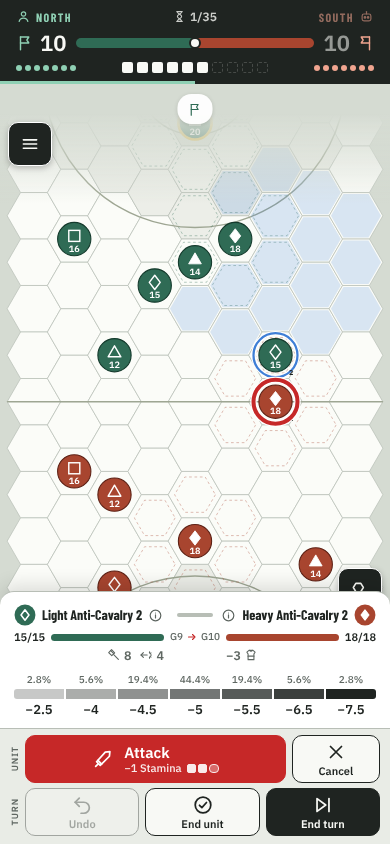
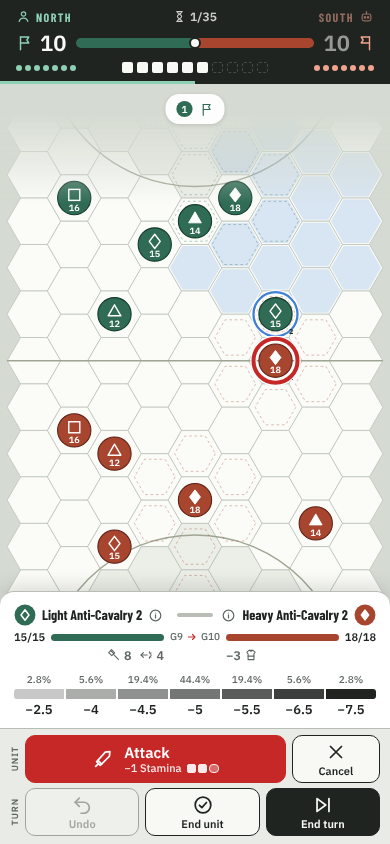
Brief 025: review of #47, five fixes
Notes take all of row 1 and never clip (two lines beside a long name);
field buttons hide under any sheet or the key drawer; the Special
button's state bar clears its label; re-warm says "again"; a preview
scrolls the attacker and every target above the sheet. 32 new phone
checks. Closes F025-2, F025-5.

Claude-Session: https://claude.ai/code/session_01NQibGW7xZDeEWBKGZw7zVF

Changed region(s): [[0.0, 0.1232, 0.9846, 0.7085], [0.4308, 0.0924, 0.5846, 0.1848], [0.3385, 0.1848, 0.3692, 0.2156]]

diff --git a/board/app.js b/board/app.js
@@ -982,12 +982,28 @@
     if (!center && y > top + 70 && y < top + vis - 70) return;
     sc.scrollTo({ top: Math.max(0, y - vis / 2), behavior: center ? "auto" : "smooth" });
   }
-  /** Put a hex in the upper part of the field, above a sheet that covers the bottom. */
+  /** The hexes a preview is about besides the unit: its target, a special's other targets, the flag it pulls. */
+  function previewHexes() {
+    const st = App.st, ui = App.ui, sh = ui.sheet, out = [];
+    if (!sh) return out;
+    const t = sh.target && E.unitByUid(st, sh.target);
+    if ((sh.kind === "attack" || sh.kind === "special") && t) out.push(t.hex);
+    if (sh.kind === "special") { const o = selOptions(), p = o && o.special && o.special.targets.find((x) => x.target === sh.target); if (p) for (const hh of p.hits) { const x = E.unitByUid(st, hh.uid); if (x && x.hex) out.push(x.hex); } }
+    if (sh.kind === "pull" && ui.sel) out.push(fld().FLAG[E.foeOf(E.unitByUid(st, ui.sel).team)]);
+    return out;
+  }
+  /** Put the unit and everything its preview is about in the part of the field above the sheet (phone). The field
+      has scroll room below its last row while a sheet is open (fieldRoom), so a unit on the last rows can come up too. */
   function revealAbove(h) {
-    const sc = $("fieldscroll"), svg = $("board");
+    const sc = $("fieldscroll"), svg = $("board"), sh = $("sheet");
     if (!svg.clientHeight || window.innerWidth >= 900) return;
-    const y = pos(h)[1] * (svg.clientHeight / boardH());
-    sc.scrollTo({ top: Math.max(0, y - sc.clientHeight * 0.28), behavior: "smooth" });
+    fieldRoom();
+    const k = svg.clientHeight / boardH(), ys = [h, ...previewHexes()].map((x) => pos(x)[1] * k);
+    const lo = Math.min(...ys), hi = Math.max(...ys), m = R * k + 8;   // a hex and a little air
+    const vis = sc.clientHeight - (!sh.hidden && sh.parentNode === $("fieldwrap") ? sh.getBoundingClientRect().height : 0);
+    let top = hi - lo + 2 * m <= vis ? (lo + hi) / 2 - vis / 2 : lo - m;
+    top = Math.max(0, Math.min(top, sc.scrollHeight - sc.clientHeight));
+    sc.scrollTo({ top, behavior: "smooth" });
   }
   function updateEdges() {
     const st = App.st, sc = $("fieldscroll"), svg = $("board");
@@ -1195,6 +1211,7 @@
     const cost = rt ? rt.cost : 0;
     const mv = movesLeft(st, sel);
     const warm = !!(ui.sheet && ui.sheet.kind === "warm" && o && o.special && o.special.warmup);
+    const rewarm = warm && o.special.state === "Charged";   // charged, no target in range: it warms up again
     // Chips in walking order, filling from the right; the Evade chip first in an Evade step.
     const evChip = (n) => `<span class="uchip">${ic("evade", 12, "#fff", "", 2.4)}${n}</span>`;
     const evHexes = () => Object.values(o.moves).reduce((m, x) => Math.max(m, x.steps), 0);
@@ -1202,23 +1219,27 @@
     if (o && o.evading) chips.push(evChip(evHexes()));
     if (rt) for (const e of rt.events) chips.push(e.type === "spear" ? `<span class="uchip hurt">${ic("setspear", 12, "#fff", "", 2.4)}${fmt(e.amount)}</span>` : e.type === "mark" ? `<span class="uchip">${ic("mark", 12, "#fff", "", 2.4)}</span>` : `<span class="uchip">+${fmt(e.amount)}</span>`);
     let note = "";
-    if (warm) note = "Fires next turn · no attack or brace";
+    if (rewarm) note = "No target in range · fires next turn";
+    else if (warm) note = "Fires next turn · no attack or brace";
     else if (!rt && o && !o.evading && !sel.done && !Object.keys(o.moves).length) note = "No movement available this turn";
     const after = note ? `<span class="ub-note">${esc(note)}</span>` : `<span class="ub-chips">${chips.join("")}</span>`;
+    // While a note shows (warm-up, can't move), it takes all of row 1: no hex and moves (review of #47, fix 1).
     let side;
-    if (warm) side = "";
+    if (note) side = null;
     else if (rt) side = `<span class="rfrom">${sel.hex}</span>${ic("arrow", 13)}<span class="rto">${ui.ghost}</span>`;
     else side = `${enemy ? `<span class="muted">Next turn</span>` : `<span role="img" aria-label="At ${sel.hex}" style="display:inline-flex;align-items:center;gap:4px">${ic("hex", 14, "var(--muted)")}${sel.hex}</span>`}
         <span role="img" aria-label="Can move ${mv} hex${mv === 1 ? "" : "es"}">→ ${mv}</span>`;
     const pct = s.maxHp ? Math.max(0, Math.min(100, (100 * s.hp) / s.maxHp)) : 0;
     el.innerHTML = `<button type="button" class="ub-handle" data-act="key-open" aria-controls="fieldkey" aria-label="Show the key"><span></span></button>
       <div class="ub-grid">
-        <div class="ub-r1"><button type="button" class="ub-id" data-act="info" aria-label="Unit information">${tokenInline(iconKey(st.rs, sel.card), sel.team, 24, sel.fk)}<span class="ub-name">${esc(UI.unitName(st, sel))}</span>${ic("info", 16, "var(--muted)")}</button>${after}</div>
-        <div class="ub-side">${side}</div>
+        <div class="ub-r1${side === null ? " wide" : ""}"><button type="button" class="ub-id" data-act="info" aria-label="Unit information">${tokenInline(iconKey(st.rs, sel.card), sel.team, 24, sel.fk)}<span class="ub-name">${esc(UI.unitName(st, sel))}</span>${ic("info", 16, "var(--muted)")}</button>${after}</div>
+        ${side === null ? "" : `<div class="ub-side">${side}</div>`}
         <div class="ub-hp" role="img" aria-label="HP ${fmt(s.hp)} of ${fmt(s.maxHp)}"><i style="width:${pct.toFixed(0)}%;background:${teamColor(sel.team)}"></i></div>
         <div class="ub-r2"><span class="num">${fmt(s.hp)}/${fmt(s.maxHp)}</span>${stamSquares(sel, now, cost)}</div>
       </div>`;
     fitChips(el);
+    const nt = el.querySelector(".ub-note");   // a note never clips: two lines if one won't fit (review of #47, fix 1)
+    if (nt && nt.scrollWidth > nt.clientWidth + 0.5) nt.classList.add("two");
   }
   /** §3: chips never cover the name or the (i). If they would not fit, they stop 8 px short of the (i) and the rest
       show as a last chip "+N". */
@@ -1237,7 +1258,7 @@
   function renderActions() {
     const st = App.st, ui = App.ui, el = $("actions");
     // A greyed-out button stays tappable when it has a reason: the tap shows why (Brief 005). Reasons come from the engine.
-    const b = (act, icon, label, opt) => `<button type="button" class="act${opt.cls ? " " + opt.cls : ""}" data-act="${act}" ${opt.dis ? (opt.why ? `aria-disabled="true" data-why="${esc(opt.why)}" title="${esc(opt.why)}"` : "disabled") : ""} ${opt.pressed !== undefined ? `aria-pressed="${opt.pressed}"` : ""}${opt.aria ? ` aria-label="${esc(opt.aria)}"` : ""}${opt.flex ? ` style="flex:${opt.flex} 1 0"` : ""}>${opt.dot ? `<i class="dot ${opt.dot}"></i>` : ""}${ic(icon, 22)}<span>${label}</span>${opt.bar ? `<i class="spbar ${opt.bar}"></i>` : ""}</button>`;
+    const b = (act, icon, label, opt) => `<button type="button" class="act${opt.cls ? " " + opt.cls : ""}${opt.bar ? " hasbar" : ""}" data-act="${act}" ${opt.dis ? (opt.why ? `aria-disabled="true" data-why="${esc(opt.why)}" title="${esc(opt.why)}"` : "disabled") : ""} ${opt.pressed !== undefined ? `aria-pressed="${opt.pressed}"` : ""}${opt.aria ? ` aria-label="${esc(opt.aria)}"` : ""}${opt.flex ? ` style="flex:${opt.flex} 1 0"` : ""}>${opt.dot ? `<i class="dot ${opt.dot}"></i>` : ""}${ic(icon, 22)}<span>${label}</span>${opt.bar ? `<i class="spbar ${opt.bar}"></i>` : ""}</button>`;
     if (st.phase === "deploy") {
       const t = deployTeam(), mine = st.units.filter((u) => u.team === t);
       const placed = mine.filter((u) => ui.placements[u.uid]).length;
@@ -1268,7 +1289,8 @@
     if (sh && sh.kind === "warm" && o && o.special && o.special.warmup) {
       const u = E.unitByUid(st, ui.sel);
       // Phone (Brief 025 §5): no line above the buttons (the note is in the unit bar); the button names the special.
-      if (!wide()) { el.innerHTML = go("warm-confirm", " gold", "special", `Warm up ${esc(o.special.name)}`, o.special.warmupCost, u, "ink") + turnRow; fitWarm(el); return; }
+      // A charged special with no target warms up again: "Warm up <name> again" (review of #47, fix 4).
+      if (!wide()) { const again = o.special.state === "Charged"; el.innerHTML = go("warm-confirm", " gold", "special", `Warm up ${esc(o.special.name)}${again ? " again" : ""}`, o.special.warmupCost, u, "ink") + turnRow; fitWarm(el, again); return; }
       el.innerHTML = `<div class="warmline">${ic("special", 16, "var(--gold)")}<span>Warm up ${esc(o.special.name)}${o.special.state === "Charged" ? " again" : ""}: fire it next turn. No attack or brace this turn.</span></div>` +
         go("warm-confirm", " gold", "special", "Warm up", o.special.warmupCost, u, "ink") + turnRow;
       return;
@@ -1297,10 +1319,10 @@
         ${specialButton(st, su, enemy ? null : o, why, pick, b, enemy)}
         ${b("brace", "brace", "Brace", { dis: !(o && o.brace), why: W(why ? why.brace : pick), cls: ss && ss.braced ? "braced" : "", dot: ss && ss.braced ? "blue" : ss && ss.bracedLast ? "ring" : "", aria: ss && ss.braced ? "Brace, braced" : ss && ss.bracedLast ? "Brace, braced last turn" : "" })}</div>${turnRow}`;
   }
-  /** §5: "Warm up <name>" on one line; if a name is too long for the button it reads "Warm up". */
-  function fitWarm(el) {
+  /** §5: "Warm up <name>" (or "Warm up <name> again") on one line; if too long, "Warm up" (or "Warm up again"). */
+  function fitWarm(el, again) {
     const t = el.querySelector('[data-act="warm-confirm"] .go-1'), b = t && t.closest("button");
-    if (t && b && b.scrollWidth > b.clientWidth + 0.5) t.textContent = "Warm up";
+    if (t && b && b.scrollWidth > b.clientWidth + 0.5) t.textContent = again ? "Warm up again" : "Warm up";
   }
   /** The Special button (Brief 011, 5a): the unit's special by name, in its state. Older rule sets keep the greyed-out
       "Special" button. Every reason comes from the engine (blockReasons). */
@@ -1534,7 +1556,17 @@
     const sorted = rows.slice().sort((a, b) => KEY_ORDER.indexOf(a.kind) - KEY_ORDER.indexOf(b.kind));
     return `<div class="key" id="fieldkey"><div class="key-h">ON THE FIELD</div>${sorted.map((r) => `<div class="key-row mk">${keySwatch(r.kind)}<div><div class="key-1">${esc(KEY_NAMES[r.kind] || r.kind)}</div><div class="key-2">${esc(r.line)}</div></div></div>`).join("")}</div>`;
   }
-  function renderSheet() {
+  function renderSheet() { renderSheetBody(); fieldRoom(); }
+  /** Phone (review of #47, fixes 2 and 5): while a sheet or the key drawer is over the field, the field buttons hide
+      (they are never covered) and the field gets scroll room below its last row as tall as the sheet, so every unit
+      in a preview can scroll above it. Nothing covers the top of the field, so it needs no room there. */
+  function fieldRoom() {
+    const el = $("sheet"), sc = $("fieldscroll");
+    const open = !wide() && !el.hidden && el.parentNode === $("fieldwrap");
+    $("view-play").classList.toggle("sheet-open", open);
+    sc.style.paddingBottom = open ? Math.ceil(el.getBoundingClientRect().height) + "px" : "";
+  }
+  function renderSheetBody() {
     const st = App.st, ui = App.ui, el = $("sheet"), sc = $("scrim");
     let sh = ui.sheet;
     placeSheet();

diff --git a/board/tests/test_phone.js b/board/tests/test_phone.js
@@ -18,7 +18,7 @@ function setup(arg) {
   const base = arg.rsId ? D.PRESETS.find((p) => p.id === arg.rsId) : D.PRESETS[D.PRESETS.length - 1];
   const rs = JSON.parse(JSON.stringify(base));
   const L = (list) => list.map(([id, card, fk]) => ({ id, card, fk: !!fk }));
-  App.match = { id: "phone", started: new Date().toISOString(), rs, opts: { first: "N", players: { N: { type: "human" }, S: { type: "bot", brainId: "brain5" } }, names: { N: "North", S: "South" }, lineups: { N: L(arg.N), S: L(arg.S) }, seed: "phone", format: "std7" }, brains: { S: BR.DEFAULT_BRAINS.brain5 || BR.DEFAULT_BRAINS.standard }, actions: [], draws: 0 };
+  App.match = { id: "phone", started: new Date().toISOString(), rs, opts: { first: "N", players: { N: { type: "human" }, S: arg.south ? { type: "human" } : { type: "bot", brainId: "brain5" } }, names: { N: "North", S: "South" }, lineups: { N: L(arg.N), S: L(arg.S) }, seed: "phone", format: "std7" }, brains: { S: BR.DEFAULT_BRAINS.brain5 || BR.DEFAULT_BRAINS.standard }, actions: [], draws: 0 };
   G.rebuild();
   const st = App.st;
   for (const team of ["N", "S"]) {
@@ -28,7 +28,8 @@ function setup(arg) {
   }
   App.match.actions = JSON.parse(JSON.stringify(st.actions));
   for (const uid in arg.place) E.unitByUid(st, uid).hex = arg.place[uid];
-  G.resetUi(); G.show("play");
+  if (arg.south) { E.act(st, { type: "end" }); App.match.actions = JSON.parse(JSON.stringify(st.actions)); }
+  G.resetUi(); document.getElementById("fieldscroll").scrollTop = 0; G.show("play");
 }
 const LINE = [["HM", "HM", true], ["HM2", "HM"], ["LM", "LM"], ["HR", "HR"], ["LR", "LR"], ["HA", "HA"], ["LA", "LA"]];
 const PLACE = { "N-HM": "E4", "N-HM2": "D9", "N-LM": "G9", "N-HR": "E7", "N-LR": "C9", "N-HA": "F6", "N-LA": "D7",
@@ -147,6 +148,62 @@ const labels = () => [...document.querySelectorAll("#actions .act")].filter((b) 
     else console.log(`  ${r.name}: ${r.w} of ${r.inner} px`);
   }
   ok(!fit.length, `every special's name fits its idle button on one line at 393 px:\n  ${fit.join("\n  ")}`);
+
+  // ---- Review of #47 ----
+  const HA2 = { N: [["HM", "HM", true], ["HA", "HA"], ["HA2", "HA"], ["HR", "HR"], ["LR", "LR"], ["LM", "LM"], ["LA", "LA"]], S: LINE,
+    place: { "N-HM": "E4", "N-HA": "F6", "N-HA2": "D9", "N-HR": "E7", "N-LR": "C9", "N-LM": "G9", "N-LA": "D7", "S-HM": "E16", "S-HM2": "E11", "S-LM": "B9", "S-HR": "H13", "S-LR": "G10", "S-HA": "G12", "S-LA": "C14" } };
+  // Fix 1: a note (warm-up, can't move) takes all of row 1 and never clips, with the longest names.
+  const noteOf = () => { const n = document.querySelector("#unitbar .ub-note"), bar = document.getElementById("unitbar"); if (!n) return null;
+    const r = n.getBoundingClientRect(), br = bar.getBoundingClientRect(), lh = parseFloat(getComputedStyle(n).lineHeight) || 11.5;
+    return { text: n.textContent, clipped: n.scrollWidth > n.clientWidth + 0.5 || n.scrollHeight > n.clientHeight + 2, lines: Math.round(r.height / lh), inside: r.right <= br.right - 13 && r.bottom <= br.bottom, side: !!document.querySelector("#unitbar .ub-side") }; };
+  for (const [lab, arg, uid] of [["Light Ranged", BASE, "N-LR"], ["Heavy Anti-Cavalry 2", HA2, "N-HA2"]]) {
+    for (const [what, run] of [["warm-up", `G.App.ui.sel = "${uid}"; G.App.ui.sheet = { kind: "warm" }; G.render();`], ["can't move", `G.E.unitByUid(G.App.st, "${uid}").stam = 0; G.App.ui.sel = "${uid}"; G.render();`],
+      ["re-warm", `G.E.unitByUid(G.App.st, "${uid}").sp = "charged"; G.E.unitByUid(G.App.st, "${uid}").hex = "A6"; G.App.ui.sel = "${uid}"; G.App.ui.sheet = { kind: "warm" }; G.render();`]]) {
+      const m = await go(arg, new Function(`const G = window.GGShots; ${run}`)), nt = await page.evaluate(noteOf);
+      ok(nt && !nt.clipped && nt.lines <= 2 && nt.inside && !nt.side, `${lab}, ${what}: the note shows in full across row 1, no hex or moves (${JSON.stringify(nt)})`);
+      ok(m.unitbar === 63, `${lab}, ${what}: unit bar still 63 px (got ${m.unitbar})`);
+      if (what === "can't move") ok(nt && nt.text === "No movement available this turn", `${lab}: "No movement available this turn" in full`);
+      if (what === "re-warm") {
+        ok(nt && nt.text === "No target in range · fires next turn", `${lab}: re-warm note (${nt && nt.text})`);
+        const t = await page.evaluate(() => { const g = document.querySelector('[data-act="warm-confirm"] .go-1'); return g && g.textContent; });
+        ok(/^Warm up (.+ )?again$/.test(t || ""), `${lab}: re-warm button says "again" (${t})`);
+      }
+      if (what === "warm-up") { const t = await page.evaluate(() => document.querySelector('[data-act="warm-confirm"] .go-1').textContent); ok(/^Warm up/.test(t) && !/again/.test(t), `${lab}: first warm-up button (${t})`); }
+    }
+  }
+  // Fix 2: field buttons are never covered: hidden under a sheet or the key drawer; otherwise their bottom sits a fixed
+  // 116 px above whatever is under the field, so they move up if it grows.
+  const fb = () => { const fw = document.getElementById("fieldwrap").getBoundingClientRect(), vis = (e) => !!e && getComputedStyle(e).display !== "none" && e.getBoundingClientRect().height > 0;
+    const sh = document.getElementById("sheet"), shTop = !sh.hidden && sh.parentNode.id === "fieldwrap" ? sh.getBoundingClientRect().top : Infinity;
+    return ["menubtn", "namesbtn"].map((id) => { const e = document.getElementById(id), r = e.getBoundingClientRect(); return { id, vis: vis(e), covered: vis(e) && r.bottom > shTop, gap: Math.round((fw.bottom - r.bottom) * 10) / 10, inField: r.top >= fw.top && r.bottom <= fw.bottom }; }); };
+  const under = { "attack sheet": sheets.attack, "special sheet": sheets.special, "flag-pull sheet": sheets["flag pull"],
+    "key drawer": () => { const G = window.GGShots; G.App.ui.sel = "N-LR"; G.render(); G.onBoardTap("C10"); document.querySelector("[data-act=key-open]").click(); },
+    "unit card": () => { const G = window.GGShots; G.App.ui.sel = "N-LR"; G.App.ui.sheet = { kind: "info", uid: "N-LR" }; G.render(); } };
+  for (const k in under) { await go(BASE, under[k]); const b = await page.evaluate(fb); ok(b.every((x) => !x.vis), `field buttons hidden under the ${k} (${JSON.stringify(b)})`); }
+  for (const [k, fn] of [["unit tapped", states["unit tapped"]], ["nothing tapped", null], ["deployment (taller bench)", () => { const G = window.GGShots; G.App.match.actions = []; G.rebuild(); G.resetUi(); G.App.ui.placements = {}; G.App.ui.deploySel = "N-HM"; G.show("play"); }]]) {
+    await go(BASE, fn); const b = await page.evaluate(fb), nm = b.find((x) => x.id === "namesbtn");
+    ok(b.every((x) => x.vis && x.inField && !x.covered) && nm.gap === 116, `${k}: field buttons shown, inside the field, hex names 116 px above what is under it (${JSON.stringify(b)})`);
+  }
+  // Fix 3: the Special button's state bar never touches its label or icon (Warming up, Charged).
+  for (const sp of ["warm", "charged"]) {
+    await go(BASE, new Function(`const G = window.GGShots; G.E.unitByUid(G.App.st, "N-LR").sp = "${sp}"; G.App.ui.sel = "N-LR"; G.render();`));
+    const r = await page.evaluate(() => { const b = document.querySelector('#actions [data-act="special"]'), bar = b.querySelector(".spbar"), lab = b.querySelector(":scope > span"), icon = b.querySelector(":scope > svg");
+      const glyph = (() => { const rg = document.createRange(); rg.selectNodeContents(lab); return rg.getBoundingClientRect(); })();
+      return { bar: bar.getBoundingClientRect().top, label: Math.max(lab.getBoundingClientRect().bottom, glyph.bottom), icon: icon.getBoundingClientRect().bottom }; });
+    ok(r.bar - Math.max(r.label, r.icon) >= 1, `Special ${sp}: the state bar sits clear of the label and icon (${JSON.stringify(r)})`);
+  }
+  // F025-4: the visible handle bar is outside the card's tap area, with the longest name.
+  await go(HA2, () => { const G = window.GGShots; G.App.ui.sel = "N-HA2"; G.render(); });
+  const hit = await page.evaluate(() => { const s = document.querySelector("#unitbar .ub-handle span").getBoundingClientRect(), pts = [[s.left + 1, s.top + 1], [s.right - 1, s.bottom - 1], [s.left + s.width / 2, s.top + s.height / 2]];
+    return pts.map(([x, y]) => { const e = document.elementFromPoint(x, y); return e && e.closest("[data-act]") ? e.closest("[data-act]").dataset.act : null; }); });
+  ok(hit.every((a) => a === "key-open"), `Heavy Anti-Cavalry 2: the handle bar opens the key, not the card (${hit})`);
+  // Fix 5: an Arc Hit by a South holder on E17: the attacker and every target scroll above the open sheet.
+  await go({ N: LINE, S: LINE, south: true, place: { ...PLACE, "S-HM2": "E17", "S-HM": "B15", "N-HM2": "E16", "N-LM": "D16", "N-LA": "F16" } },
+    () => { const G = window.GGShots; G.E.unitByUid(G.App.st, "S-HM2").sp = "charged"; G.App.ui.sel = "S-HM2"; G.App.ui.armed = "special"; G.render(); G.onBoardTap("E16"); });
+  await page.waitForTimeout(900);
+  const seen = await page.evaluate(() => { const sh = document.getElementById("sheet").getBoundingClientRect(), fw = document.getElementById("fieldwrap").getBoundingClientRect();
+    return ["E17", "E16", "D16", "F16"].map((h) => { const r = document.querySelector(`#board [data-hex="${h}"]`).getBoundingClientRect(); return { h, ok: r.top >= fw.top - 1 && r.bottom <= sh.top + 1 }; }); });
+  ok(seen.every((x) => x.ok), `Arc Hit from E17: the attacker and all three targets are above the sheet (${JSON.stringify(seen)})`);
 
   ok(!errors.length, `no page errors (${errors.join(" | ")})`);
   await browser.close();

diff --git a/board/index.html b/board/index.html
@@ -326,12 +326,14 @@ h3 { margin: 0 0 8px; font: 700 17px/1.1 var(--display); text-transform: upperca
   .ub5 .ub-handle span { width: 36px; height: 4px; border-radius: 2px; background: var(--line); }
   .ub5 .ub-grid { position: relative; margin-top: 14px; display: grid; grid-template-columns: minmax(0, 1fr) auto; column-gap: 10px; row-gap: 6px; align-items: center; pointer-events: none; }
   .ub5 .ub-grid > * { pointer-events: auto; }
+  .ub5 .ub-r1.wide { grid-column: 1 / -1; }
   .ub5 .ub-r1 { height: 22px; display: flex; align-items: center; gap: 8px; min-width: 0; }
   .ub5 .ub-id { position: relative; flex: 0 0 auto; display: inline-flex; align-items: center; gap: 8px; border: 0; background: none; padding: 0; height: 22px; color: var(--ink); text-align: left; }
   .ub5 .ub-id::before { content: ""; position: absolute; left: -6px; right: -6px; top: 0; height: 44px; }
   .ub5 .ub-name { font: 700 17px/1 var(--display); letter-spacing: .02em; white-space: nowrap; margin: 0; }
   .ub5 .ub-chips { flex: 1 1 auto; min-width: 0; display: flex; flex-direction: row-reverse; justify-content: flex-start; gap: 5px; overflow: hidden; margin-left: 0; }
-  .ub5 .ub-note { flex: 1 1 auto; min-width: 0; text-align: right; font: 500 11.5px/1 var(--body); color: var(--muted); white-space: nowrap; overflow: hidden; text-overflow: ellipsis; }
+  .ub5 .ub-note { flex: 1 1 auto; min-width: 0; text-align: right; font: 500 11.5px/1 var(--body); color: var(--muted); white-space: nowrap; }
+  .ub5 .ub-note.two { white-space: normal; line-height: 11px; text-wrap: balance; }   /* only when one line won't fit beside the name */
   .ub5 .ub-side { height: 22px; display: flex; align-items: center; justify-content: flex-end; gap: 8px; font: 600 13px/1 var(--num); white-space: nowrap; }
   .ub5 .ub-side .rfrom { color: var(--muted); } .ub5 .ub-side > svg { color: var(--ink); }
   .ub5 .ub-hp { height: 6px; border-radius: 3px; background: #dfe3dc; overflow: hidden; }
@@ -341,9 +343,12 @@ h3 { margin: 0 0 8px; font: 700 17px/1.1 var(--display); text-transform: upperca
   .uchip { flex: 0 0 auto; display: inline-flex; align-items: center; gap: 3px; height: 17px; border-radius: 8.5px; padding: 0 7px; background: var(--ink); color: #fff; font: 700 11px/1 var(--num); }
   .uchip.hurt { background: var(--attack); }
   #view-play.sheet-up #unitbar { display: none; }
+  #view-play.sheet-open .fbtn, #view-play.sheet-open #namesbtn { display: none; }
   /* 4. Action panel: 116 px, every button 48 px */
   #actions { padding: 6px 10px 8px; gap: 5px; }
   .act { height: 48px; }
+  .act.hasbar { padding-bottom: 9px; gap: 1px; }   /* the special's state bar sits under the label, never on it */
+  .act.hasbar .spbar { height: 4px; }
   /* 6. One sheet for attack, special and flag pull */
   #sheet.v5 { padding: 9px 14px 12px; gap: 0; }
   .v5 .strip { margin-top: 3px; display: grid; grid-template-columns: minmax(0, 1fr) 36px minmax(0, 1fr); column-gap: 8px; align-items: center; min-height: 22px; cursor: pointer; touch-action: none; }

diff --git a/briefs/025-phone-fit.md b/briefs/025-phone-fit.md
@@ -165,5 +165,14 @@ On your phone, in the browser, one 7v7 against the bot:
 - **Bot minimum (met / not met, with numbers):** n/a
 - **Settings review (brain builds only):** n/a
 - **Known gaps:** the pull sheet's modifiers are read from the engine's own wording of the pull (`pullValue().parts`); if that wording changes, `test_ui.js` fails rather than the sheet going wrong silently. Desktop still says "Tap one of your units" (desktop is out of scope).
-- **Flags closed / opened:** closed F017-1, F017-2 (the Editor, 20 Nov) and F017-4 (this build) in `flags/017.md`. Opened in `flags/025.md`: F025-1 to F025-4 (ASK), F025-5 (OPEN, for brief 018).
+- **Review of #47 (five fixes), done:**
+  1. **Notes never clip.** While a note shows (warm-up, re-warm, can't move), it takes all of row 1: no hex or moves. Beside Light Ranged it fits on one line. Beside Heavy Anti-Cavalry 2 one line still won't fit (the name, token and (i) leave about 150 px; the notes need about 185), so there it goes onto two 11 px lines inside the same 22 px row. The bar stays 63 px. Nothing clips; "No movement available this turn" shows in full. Screenshots: `build-393x665/r1-*.png`.
+  2. **Field buttons are never covered.** The menu and hex-names buttons hide while any sheet or the key drawer is open (attack, special, pull, unit card, key). Otherwise the hex-names button's bottom sits 116 px above whatever is under the field, so it moves up when that grows (checked with deployment's taller bench).
+  3. **The Special button's state bar clears its label.** On 48 px buttons with a state bar: the bar is 4 px (was 5), with a 1 px gap under the icon and 9 px padding below. The bar now sits 2 px or more below the label's text box in Warming up and Charged. Screenshots: `r3-special-warming-up.png`, `r3-special-charged.png`.
+  4. **Re-warm wording.** A charged special with no target: the button reads "Warm up <name> again" ("Warm up again" if too long) and the note reads "No target in range · fires next turn". The first warm-up is unchanged. Screenshot: `r4-rewarm.png`.
+  5. **Every unit in a preview can come above the sheet.** While a sheet is open the field gets scroll room below its last row as tall as the sheet. The preview then scrolls so the attacker and every target (a special's other targets, the flag it pulls) sit above it. Screenshot: `r5-arc-hit-from-e17.png` (South Heavy Melee holding on E17, Arc Hit on E16 with D16 and F16: all four above the sheet). No room was added above the first row. Nothing covers the top of the field now that the buttons hide under a sheet, and room there would make the field jump when a sheet opens. Ask if 018's turn tag needs it.
+  - F025-4 checked with Heavy Anti-Cavalry 2: the visible handle bar is outside the card's tap area, so nothing to change.
+  - New `test_phone.js` checks (64 in all, was 32): notes in full with both units, re-warm wording, field buttons hidden under all five sheets and placed right in three states, the state bar clear in both states, the handle bar opens the key, the E17 Arc Hit. 18 of the new checks fail on the reviewed build (`bacad98`) and all pass now. Desktop re-compared at 1280 × 800: identical, apart from the old harness artifact on the key drawer. The game files are untouched, so the hashes above still stand. Rerun here: `test_ui` 112/112, `test_version`, `test_phone` 64/64, `board_check` 4 games, 0 different.
+  - Not in this build, as asked: the several-targets rows stay as built.
+- **Flags closed / opened:** closed F017-1, F017-2 (the Editor, 20 Nov) and F017-4 (this build) in `flags/017.md`. Opened in `flags/025.md`: F025-1, F025-3, F025-4 (ASK); F025-2 and F025-5 opened and closed in this build (review of #47, fixes 1 and 2).
 - **Pull request:** https://github.com/productofdefiance/Flagfall/pull/47

diff --git a/flags/025.md b/flags/025.md
@@ -5,7 +5,7 @@ Same columns and status words as `FLAGS.md`.
 | # | Date | Raised by | Issue | Status | Resolved in / next step |
 |---|---|---|---|---|---|
 | F025-1 | 21 Nov | Code | §6.3 says a special shows "base Strength, then the multiplier, nothing struck" (`9 ×1.75`). It doesn't cover a Strength that something else changed first (Javelin's Reach −1, a Heavy Ranged's Half Strength). Built as: that change keeps Brief 009's rule (`8` struck, `7`, then `×2`); only the multiplier is never struck. Showing the base alone would hide the Reach or Half Strength and the numbers wouldn't add up to the damage shown | ASK | Recommended: accept |
-| F025-2 | 21 Nov | Code | §7 "A unit that can't move": `No movement available this turn` doesn't fit beside a normal name while the hex and moves stay on the right at 393 px (Heavy Melee: it shows about "No movement availab…"). Built so it clips with "…" rather than cover the hex (screenshot `briefs/img/025/build-393x665/s7-cannot-move.png`) | ASK | Recommended: hide the hex and moves while it shows, as the warm-up note does (its `→ 0` says the same thing); then the full line fits beside every name. Alternative: shorter wording, `Can't move this turn`, which still clips beside the longest names |
+| F025-2 | 21 Nov | Code | §7 "A unit that can't move": `No movement available this turn` doesn't fit beside a normal name while the hex and moves stay on the right at 393 px (Heavy Melee: it shows about "No movement availab…"). Built so it clips with "…" rather than cover the hex (screenshot `briefs/img/025/build-393x665/s7-cannot-move.png`) | CLOSED | Resolved by the review of #47, fix 1: while a note shows, it takes all of row 1 (no hex or moves) and goes onto two lines only if one won't fit beside the name (Heavy Anti-Cavalry 2). Never clipped; `test_phone.js` checks it |
 | F025-3 | 21 Nov | Code | §6.6 says the pulling unit sits on the left. Built as: the pulling unit sits where an attacker would (North on the left, South on the right, as the attack preview does), so a South pull puts the flag on the left | ASK | Recommended: accept (same side as every other preview) |
-| F025-4 | 21 Nov | Code | §3: the unit card's tap area (token, name and (i), 44 px tall as asked) overlaps the handle's 24 px touch area over the name. There the card wins; the handle still opens the key everywhere else along the top of the bar | ASK | Recommended: accept |
-| F025-5 | 21 Nov | Code | The hex-names button sits at Brief 018's position (its bottom 116 px above the field's bottom). With a preview sheet open (137 to 169 px tall) it is under the sheet, so hex names can't be toggled during a preview. Same for 018's zoom button below it | OPEN | For brief 018: decide whether field buttons ride above an open sheet |
+| F025-4 | 21 Nov | Code | §3: the unit card's tap area (token, name and (i), 44 px tall as asked) overlaps the handle's 24 px touch area over the name. There the card wins; the handle still opens the key everywhere else along the top of the bar | ASK | Recommended: accept. Checked in the review of #47 with Heavy Anti-Cavalry 2: the visible handle bar (y 5–9 px) is outside the card's tap area (it starts at 14 px); `test_phone.js` checks that tapping the bar opens the key |
+| F025-5 | 21 Nov | Code | The hex-names button sits at Brief 018's position (its bottom 116 px above the field's bottom). With a preview sheet open (137 to 169 px tall) it is under the sheet, so hex names can't be toggled during a preview. Same for 018's zoom button below it | CLOSED | Resolved by the review of #47, fix 2: field buttons hide while a sheet or the key drawer is open, and otherwise sit a fixed 116 px above whatever is under the field. 018 applies the same rule to zoom |

diff --git a/CHANGELOG.md b/CHANGELOG.md
@@ -30,14 +30,15 @@ Rule set: none changed (v3.9 stays the new-game default). Default brain: Brain 5
 - **The unit bar keeps one height** whatever you tap, so the field never jumps. It reads "Tap a unit" when nothing is tapped. A previewed move's dangers and costs show as chips beside the name; the route (C9 → C10) shows on the right. Tap the token or name for the unit's card, or the handle on top for the key. The "Pull up for the key" tab on the field is gone.
 - **One compact sheet** for attack, special and flag pull. It replaces the unit bar while it's open: both full names, HP bars under them with the two hexes between, modifiers under the bars, the outcomes, then a bracket (or a line) showing which outcomes bring a set spear, a Mark or "Flag falls". A special's Strength reads "9 ×1.75". Tap a name in the sheet for that unit's card; closing it brings the preview back.
 - **Flag pull** uses that sheet (no more dice grid), with the red **Pull** button in the action panel like Attack.
-- **Warming up** shows "Fires next turn · no attack or brace" in the unit bar; the button reads "Warm up Arrow Storm". Action buttons are 48 px tall and their labels never wrap.
+- **Warming up** shows "Fires next turn · no attack or brace" in the unit bar (two lines beside a long name, never cut off); the button reads "Warm up Arrow Storm". A charged special with no target says "Warm up Arrow Storm again" and "No target in range · fires next turn". Action buttons are 48 px tall and their labels never wrap; the Special button's state bar sits under its name.
+- **The menu and hex-names buttons hide** while a sheet or the key drawer is open, so nothing covers them. A preview scrolls the field so the attacker and every target sit above the sheet, even from the last rows.
 
 **Under the hood**
 - `index.html`, `app.js`: a phone-only layout under 900 px. The desktop layout (900 px and wider) is untouched: screenshots at 1280 × 800 are pixel-identical to Build 17's.
 - `ui.js`: `pullPreview()` (the pull sheet's numbers, read from the engine's pull) and `phoneSpecialStats()` ("9 ×1.75"). No engine change; every preset replays identically.
 - New check `test_phone.js` (headless browser at 393 × 665), run on GitHub beside `board_check.js`; new rows in `test_ui.js`.
 
-**Flags closed:** F017-1, F017-2 (accepted by the Editor, 20 Nov), F017-4 (this build). **Opened:** see `flags/025.md`.
+**Flags closed:** F017-1, F017-2 (accepted by the Editor, 20 Nov), F017-4, F025-2, F025-5 (this build). **Opened:** see `flags/025.md`.
 
 ## v3.13.00 · Build 17 — Brief 017, rule set v3.9: move and range preview, Approved UI v3 (20 Nov 2026)
 Rule set: **v3.9** (new, the new-game default): v3.8 plus switch `routeRule211` (Game Laws 2.11). Default brain: Brain 5, unchanged. UI: **v3** (Approved UI v3). Game version **v3.13.00** (YY: new screens and a routing rule).
